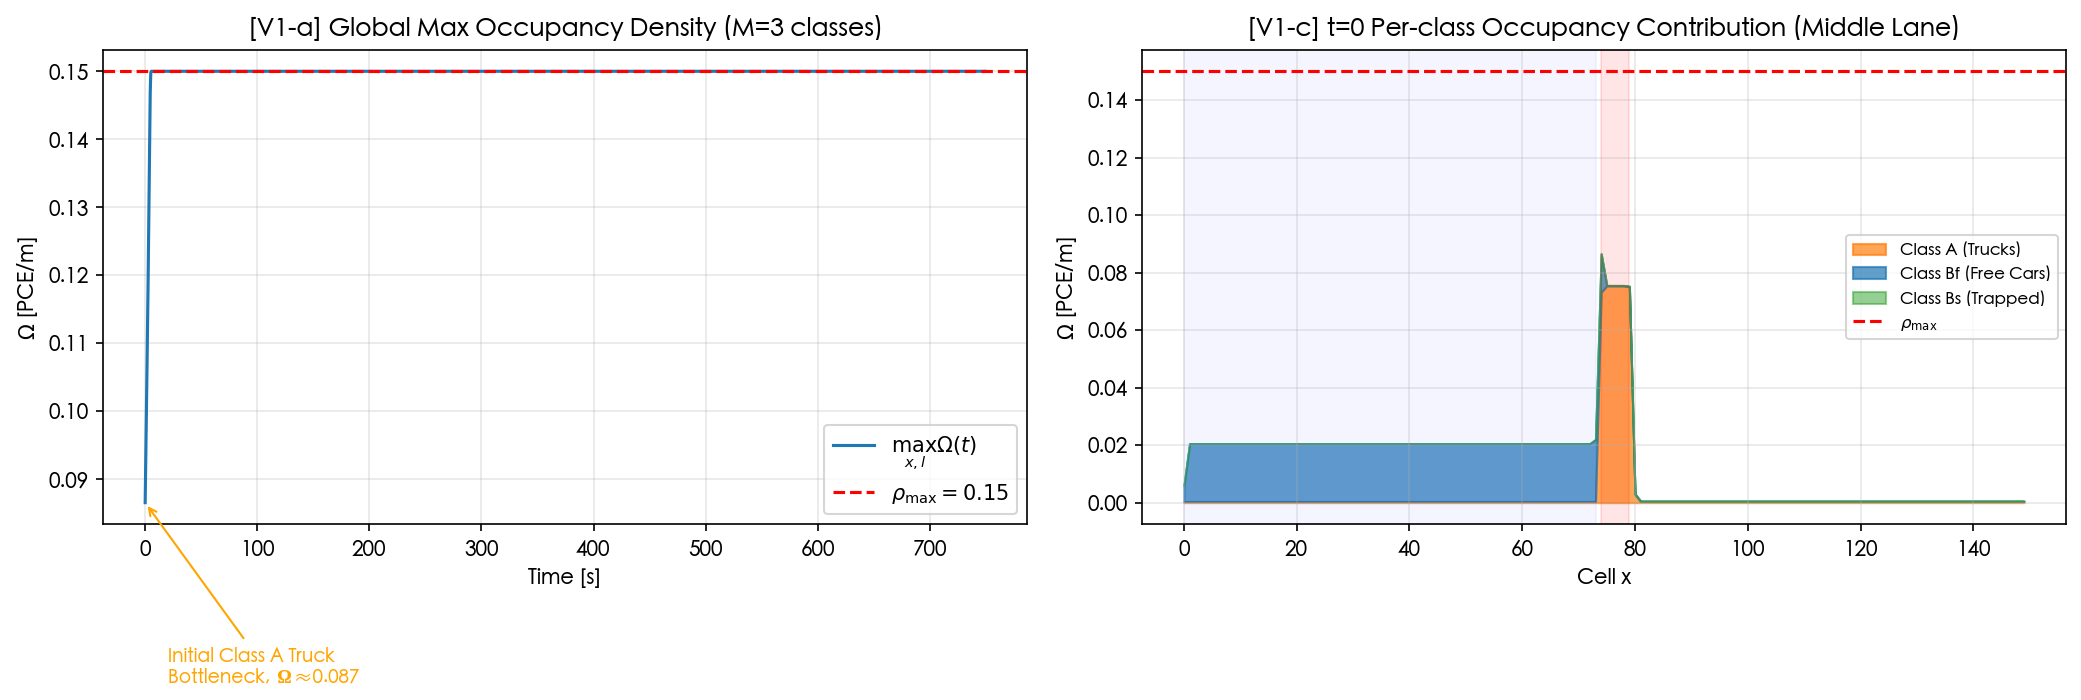
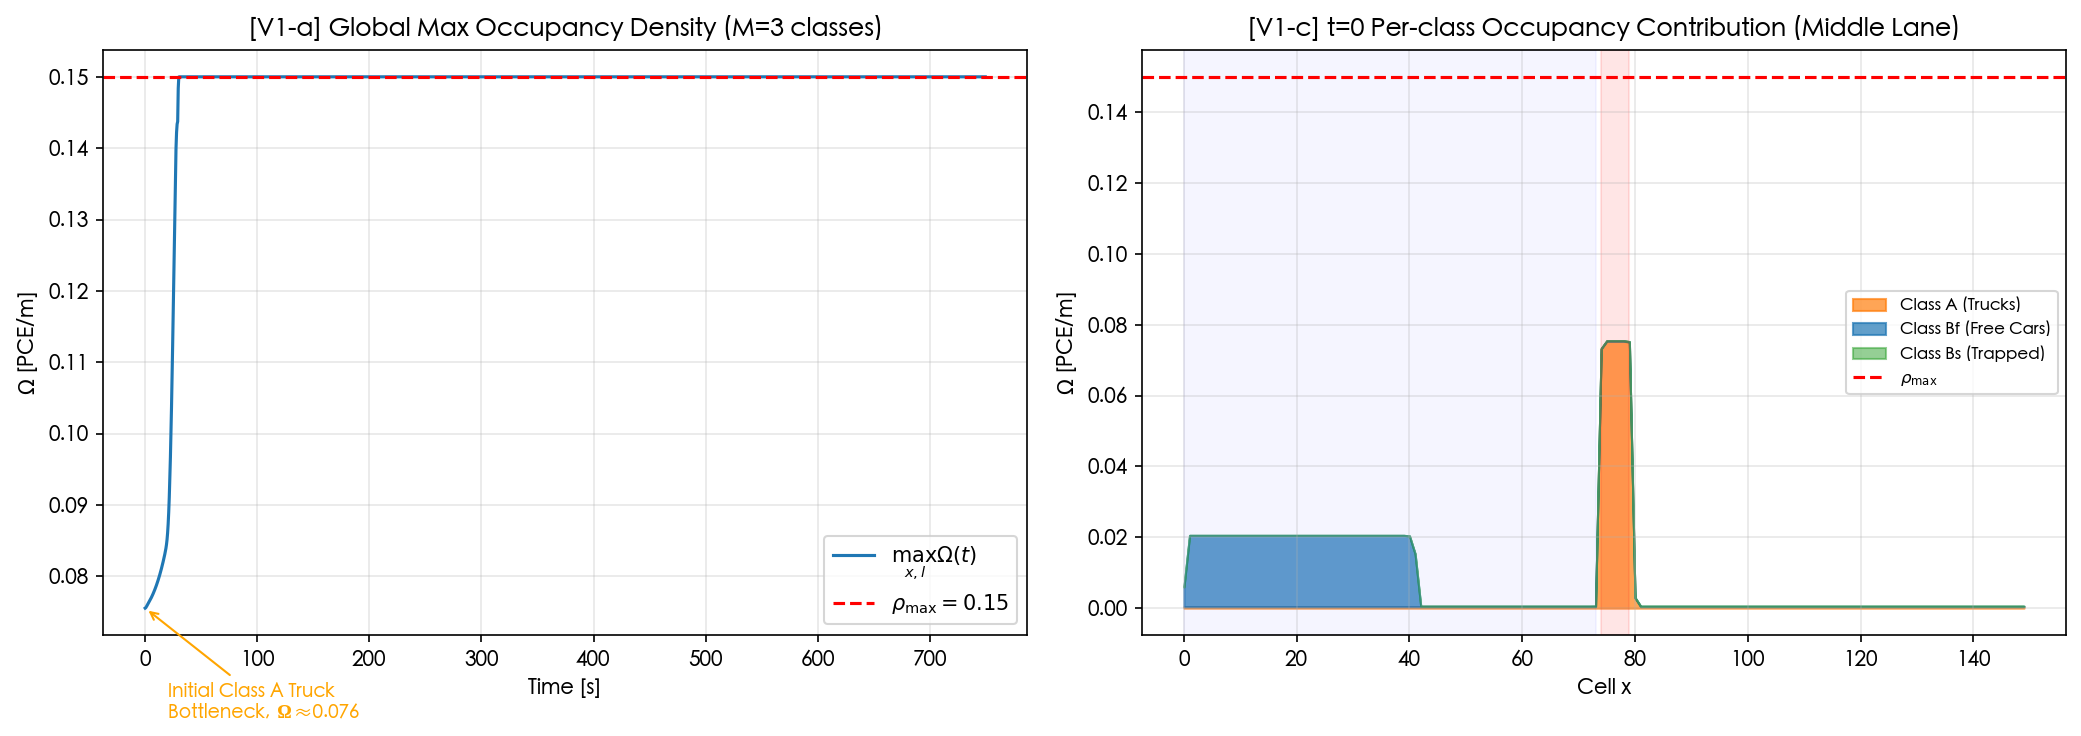
Plan C: Bf zone x=0-40 only, leaving x=41-73 as truck escape corridor
- generate_dataset.py: Bf initial zone x=0-73 → x=0-40 (partial upstream)
  x=41-73 left sparse so trucks have low-density downstream escape zone
- Bf survival extended: v=30 m/s cars survive ~50s (vs 5s with full upstream)
- Truck CoM advances 76→79 in first 200s (partial rarefaction visible)
- Bs% reaches 88% at t=50s (slower than before, feather structure may return)
- 41/41 PASS

diff --git a/code/generate_dataset.py b/code/generate_dataset.py
@@ -95,9 +95,10 @@ def initialize_state():
     # Provides acceleration headroom so trucks can rarefy toward v_A_ff=14 m/s.
     f[0, 1, 74:80, :] = 0.030
 
-    # Class Bf (free cars, m=1): uniform upstream (x=0-73, v=30m/s, ρ=0.020)
-    # Restored to 0.020 to preserve Bf circulation and feather structure in Hovmöller.
-    f[1, 15, 0:74, :] = 0.020
+    # Class Bf (free cars, m=1): partial upstream (x=0-40, v=30m/s, ρ=0.020)
+    # x=41-73 left sparse so trucks have a low-density escape zone downstream.
+    # This allows the truck jam to rarefy toward v_A_ff=14 m/s (supervisor request).
+    f[1, 15, 0:41, :] = 0.020
 
     # Class Bs (trapped cars, m=2): starts at zero everywhere
     f[2, :, :, :] = 0.0
